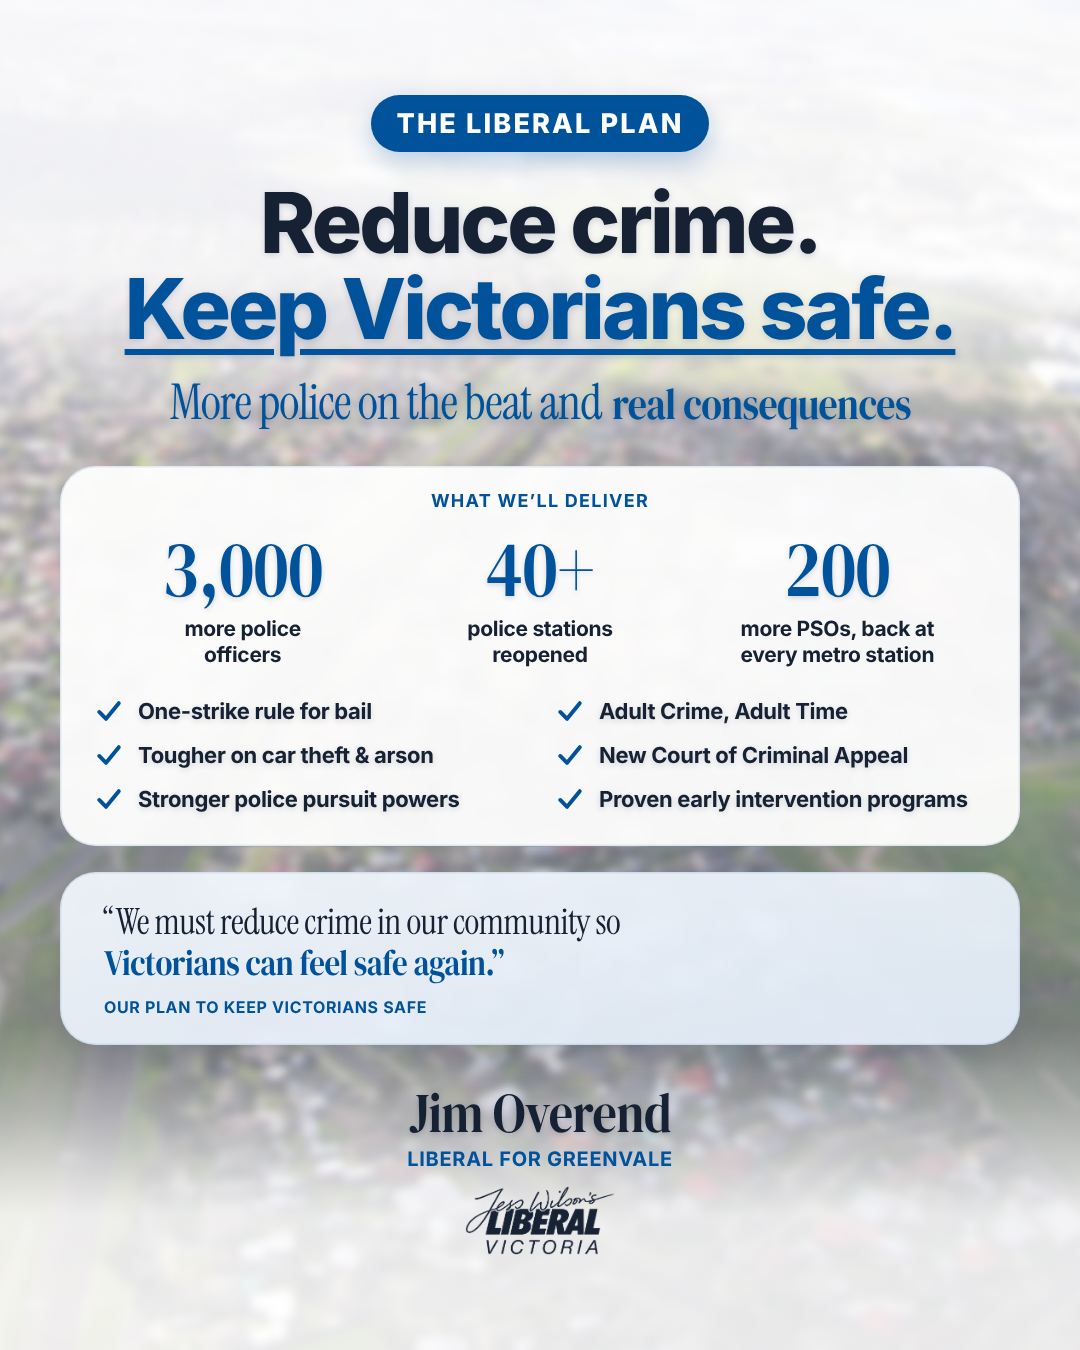
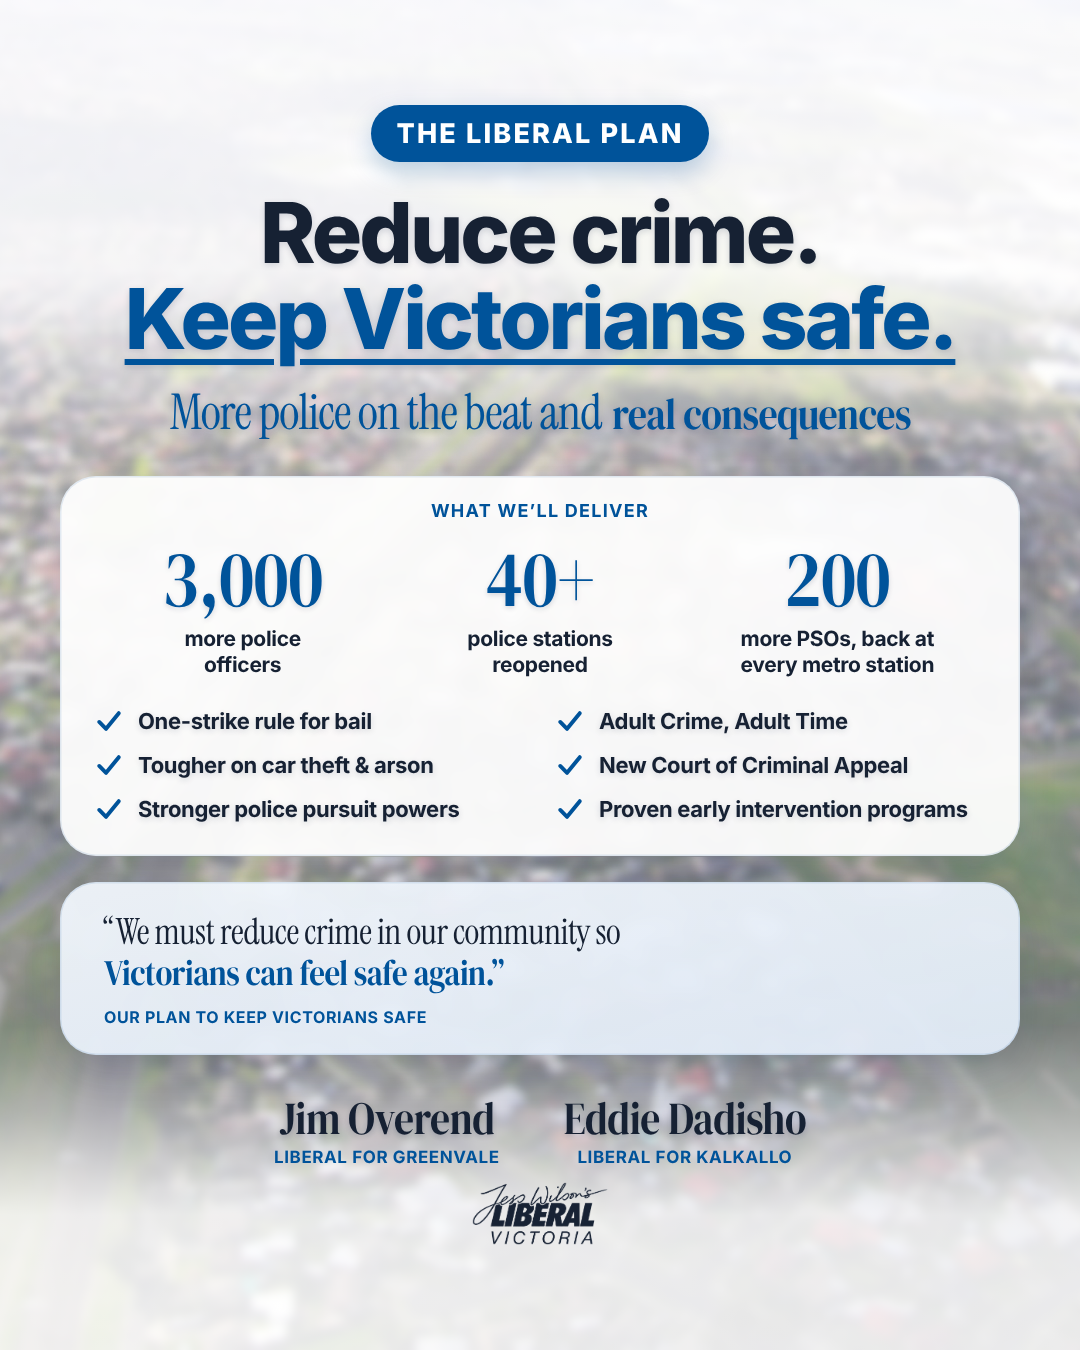
Crime slides: add Eddie Dadisho (Liberal for Kalkallo) to the footer
Two candidate blocks side by side (Greenvale, Kalkallo) with the logo
centred beneath; both slides re-centred.

Claude-Session: https://claude.ai/code/session_01MT6wivusBEagFnhed7SAun

Changed region(s): [[0.0611, 0.0622, 0.9472, 0.9333]]

diff --git a/designs/crime-north/source/crime-plan.html b/designs/crime-north/source/crime-plan.html
@@ -44,8 +44,10 @@ h1 .ul{text-decoration:underline;text-decoration-color:var(--blue);text-decorati
 #quote .who{margin-top:14px;font-family:"Inter";font-weight:700;color:var(--blue);letter-spacing:.04em;text-transform:uppercase}
 #stats .st .l b{font-weight:800}
 #foot{display:flex;flex-direction:column;align-items:center}
-#name .n{font-family:"Serif Bold";color:var(--navy);line-height:1;letter-spacing:-.01em;white-space:nowrap;text-shadow:var(--shadow);display:inline-block;transform:scaleX(.86)}
-#name .r{margin-top:6px;font-family:"Inter";font-weight:700;color:var(--blue);letter-spacing:.035em;text-transform:uppercase;line-height:1.25}
+#names{display:flex;justify-content:center;align-items:flex-start;gap:var(--ngap)}
+.cand{text-align:center}
+.cand .n{font-family:"Serif Bold";color:var(--navy);line-height:1;letter-spacing:-.01em;white-space:nowrap;text-shadow:var(--shadow);display:inline-block;transform:scaleX(.86)}
+.cand .r{margin-top:6px;font-family:"Inter";font-weight:700;color:var(--blue);letter-spacing:.035em;text-transform:uppercase;line-height:1.25}
 </style></head>
 <body><div id="stage">
   <img id="bg" class="abs" src="bg.jpg" alt="">
@@ -56,13 +58,13 @@ h1 .ul{text-decoration:underline;text-decoration-color:var(--blue);text-decorati
     <div id="lead" class="serif"></div>
     <div id="statcard" class="card"><div class="lab"></div><div id="stats"></div><div id="ticks"></div></div>
     <div id="quote" class="card"><div class="mark">“</div><div class="q"></div><div class="who"></div></div>
-    <div id="foot"><div id="name"><div class="n"></div><div class="r"></div></div><img id="logo" src="logo-navy.png" alt="Jess Wilson's Liberal Victoria"></div>
+    <div id="foot"><div id="names"></div><img id="logo" src="logo-navy.png" alt="Jess Wilson's Liberal Victoria"></div>
   </div>
 </div>
 <script>
 const P = Object.assign({
   // Defaults = the published layout. Override any key via ?p={"key":value} (see render.js).
-  wash:[.86,.18,.86], top:95,
+  wash:[.86,.18,.86], top:105,
   kicker:'The Liberal Plan', kickerSize:27, kickerGap:28, cardLab:'What we’ll deliver', labSize:18,
   head:'Reduce crime.<br><span class="acc ul">Keep Victorians safe.</span>', hSize:84,
   lead:'<span class="lt">More police on the beat and</span> <span class="bd">real consequences</span>', leadSize:44,
@@ -73,7 +75,9 @@ const P = Object.assign({
   quote:{text:'We must reduce crime in our community so <span class="bd">Victorians can feel safe again.”</span>',
     size:36, who:'Our Plan to Keep Victorians Safe', whoSize:16, markSize:130},
   gaps:[24,36,26,40],                    // after head, lead, statcard, quote
-  name:{size:56, text:'Jim Overend', role:'Liberal for Greenvale', roleSize:20}, logoW:150, footGap:14
+  // candidates, ordered by electorate
+  cands:[['Jim Overend','Liberal for Greenvale'],['Eddie Dadisho','Liberal for Kalkallo']],
+  nameSize:46, roleSize:17, nameGap:64, logoW:136, footGap:14
 }, JSON.parse(new URLSearchParams(location.search).get('p')||'{}'));
 const $=id=>document.getElementById(id), px=v=>v+'px';
 const W=$('wash').style; W.setProperty('--w-top',P.wash[0]); W.setProperty('--w-mid',P.wash[1]); W.setProperty('--w-bot',P.wash[2]);
@@ -89,8 +93,9 @@ $('quote').querySelector('.mark').style.fontSize=px(Q.markSize); $('quote').quer
 $('kicker').innerHTML=P.kicker; $('kicker').style.fontSize=px(P.kickerSize); $('kicker').style.marginBottom=px(P.kickerGap);
 $('statcard').querySelector('.lab').innerHTML=P.cardLab; $('statcard').querySelector('.lab').style.fontSize=px(P.labSize);
 ['h','lead','statcard','quote'].forEach((id,i)=>$(id).style.marginBottom=px(P.gaps[i]));
-$('name').querySelector('.n').innerHTML=P.name.text; $('name').querySelector('.n').style.fontSize=px(P.name.size);
-$('name').querySelector('.r').innerHTML=P.name.role; $('name').querySelector('.r').style.fontSize=px(P.name.roleSize);
+$('names').innerHTML=P.cands.map(([n,r])=>`<div class="cand"><div class="n" style="font-size:${P.nameSize}px">${n}</div><div class="r" style="font-size:${P.roleSize}px">${r}</div></div>`).join('');
+$('names').style.setProperty('--ngap',px(P.nameGap));
+document.fonts.ready.then(()=>document.querySelectorAll('.cand .n').forEach(el=>{const m=-(el.offsetWidth*(1-0.86)/2); el.style.marginLeft=el.style.marginRight=m+'px';}));
 $('logo').style.width=px(P.logoW);
 document.fonts.ready.then(()=>{document.querySelectorAll('#quote .bd').forEach(el=>{el.style.marginRight=(-el.offsetWidth*0.14)+'px';});});
 document.fonts.ready.then(()=>document.querySelectorAll('.serif .bd').forEach(el=>{const m=-(el.offsetWidth*(1-0.86)/2); el.style.marginLeft=el.style.marginRight=m+'px';})); $('foot').style.gap=px(P.footGap);

diff --git a/designs/crime-north/source/crime-labor.html b/designs/crime-north/source/crime-labor.html
@@ -43,8 +43,10 @@ h1 .ul{text-decoration:underline;text-decoration-color:var(--red);text-decoratio
   font-family:"Inter";font-weight:700;letter-spacing:-.01em;box-shadow:0 10px 24px rgba(215,38,46,.25)}
 #swipe svg{width:1.1em;height:1.1em}
 #foot{display:flex;flex-direction:column;align-items:center}
-#name .n{font-family:"Serif Bold";color:var(--navy);line-height:1;letter-spacing:-.01em;white-space:nowrap;text-shadow:var(--shadow);display:inline-block;transform:scaleX(.86)}
-#name .r{margin-top:5px;font-family:"Inter";font-weight:700;color:var(--blue);letter-spacing:.035em;text-transform:uppercase;line-height:1.25}
+#names{display:flex;justify-content:center;align-items:flex-start;gap:var(--ngap)}
+.cand{text-align:center}
+.cand .n{font-family:"Serif Bold";color:var(--navy);line-height:1;letter-spacing:-.01em;white-space:nowrap;text-shadow:var(--shadow);display:inline-block;transform:scaleX(.86)}
+.cand .r{margin-top:5px;font-family:"Inter";font-weight:700;color:var(--blue);letter-spacing:.035em;text-transform:uppercase;line-height:1.25}
 </style></head>
 <body><div id="stage">
   <img id="bg" class="abs" src="bg.jpg" alt="">
@@ -55,13 +57,13 @@ h1 .ul{text-decoration:underline;text-decoration-color:var(--red);text-decoratio
     <div id="stats" class="card"></div>
     <div id="record" class="card"><div class="lab"></div><div class="rows"></div></div>
     <div id="swipe"><span></span><svg viewBox="0 0 24 24" fill="none" stroke="#fff" stroke-width="2.6" stroke-linecap="round" stroke-linejoin="round"><path d="M4 12h15M13 6l6 6-6 6"/></svg></div>
-    <div id="foot"><div id="name"><div class="n"></div><div class="r"></div></div><img id="logo" src="logo-navy.png" alt="Jess Wilson's Liberal Victoria"></div>
+    <div id="foot"><div id="names"></div><img id="logo" src="logo-navy.png" alt="Jess Wilson's Liberal Victoria"></div>
   </div>
 </div>
 <script>
 const P = Object.assign({
   // Defaults = the published layout. Override any key via ?p={"key":value} (see render.js).
-  wash:[.90,.30,.88], top:106,
+  wash:[.90,.30,.88], top:113,
   head:'Labor has lost<br><span class="acc ul">control of crime.</span>', hSize:94,
   lead:'<span class="lt">Crime across Hume is</span> <span class="bd">up 30% since 2022</span>', leadSize:50,
   // Crime Statistics Agency, Hume LGA, year to June 2026 vs year to December 2022: [big, label, before → after]
@@ -75,7 +77,9 @@ const P = Object.assign({
   ]},
   swipe:'Swipe for our plan', swipeSize:21,
   gaps:[26,44,26,40,0,36],               // after head, lead, stats, record, (unused), swipe
-  name:{size:54, text:'Jim Overend', role:'Liberal for Greenvale', roleSize:19}, logoW:146, footGap:12
+  // candidates, ordered by electorate
+  cands:[['Jim Overend','Liberal for Greenvale'],['Eddie Dadisho','Liberal for Kalkallo']],
+  nameSize:46, roleSize:17, nameGap:64, logoW:136, footGap:14
 }, JSON.parse(new URLSearchParams(location.search).get('p')||'{}'));
 const $=id=>document.getElementById(id), px=v=>v+'px';
 const W=$('wash').style; W.setProperty('--w-top',P.wash[0]); W.setProperty('--w-mid',P.wash[1]); W.setProperty('--w-bot',P.wash[2]);
@@ -88,8 +92,9 @@ $('record').querySelector('.lab').innerHTML=R.lab; $('record').querySelector('.l
 $('record').querySelector('.rows').innerHTML=R.rows.map(t=>`<div class="x" style="font-size:${R.size}px">${cross}<span>${t}</span></div>`).join('');
 $('swipe').querySelector('span').innerHTML=P.swipe; $('swipe').style.fontSize=px(P.swipeSize);
 [['h',0],['lead',1],['stats',2],['record',3],['swipe',5]].forEach(([id,i])=>$(id).style.marginBottom=px(P.gaps[i]));
-$('name').querySelector('.n').innerHTML=P.name.text; $('name').querySelector('.n').style.fontSize=px(P.name.size);
-$('name').querySelector('.r').innerHTML=P.name.role; $('name').querySelector('.r').style.fontSize=px(P.name.roleSize);
+$('names').innerHTML=P.cands.map(([n,r])=>`<div class="cand"><div class="n" style="font-size:${P.nameSize}px">${n}</div><div class="r" style="font-size:${P.roleSize}px">${r}</div></div>`).join('');
+$('names').style.setProperty('--ngap',px(P.nameGap));
+document.fonts.ready.then(()=>document.querySelectorAll('.cand .n').forEach(el=>{const m=-(el.offsetWidth*(1-0.86)/2); el.style.marginLeft=el.style.marginRight=m+'px';}));
 $('logo').style.width=px(P.logoW); $('foot').style.gap=px(P.footGap);
 document.fonts.ready.then(()=>document.querySelectorAll('.serif .bd').forEach(el=>{const m=-(el.offsetWidth*(1-0.86)/2); el.style.marginLeft=el.style.marginRight=m+'px';}));
 </script>

diff --git a/designs/crime-north/crime-post.md b/designs/crime-north/crime-post.md
@@ -5,6 +5,10 @@ Two 1080×1350 slides (plus `@2x`, 2160×2700) in the same style as the Technica
 1. `crime-1-labor.png` — **Labor's failure**, in Labor red and white
 2. `crime-2-plan.png` — **The Liberal Plan**, in Liberal blue
 
+Both slides are signed off by two candidates, side by side and ordered by electorate:
+**Jim Overend, Liberal for Greenvale** and **Eddie Dadisho, Liberal for Kalkallo**, with the Jess Wilson's
+Liberal Victoria logo centred beneath them (`cands` in each page's defaults).
+
 ---
 
 ## Post caption (ready to paste)
